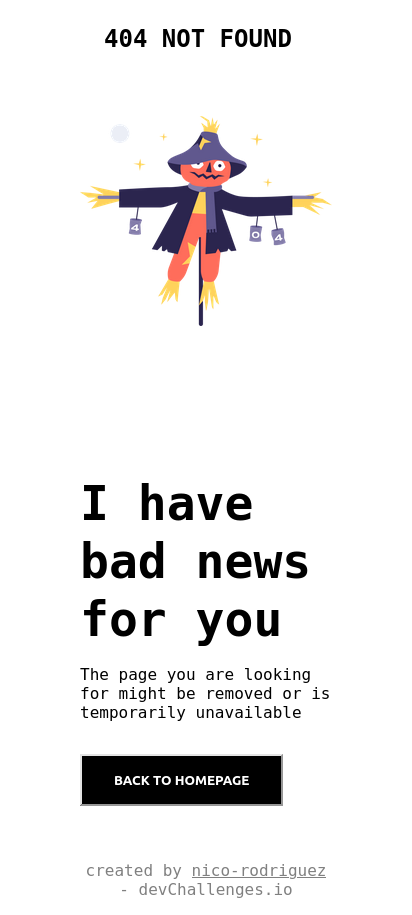
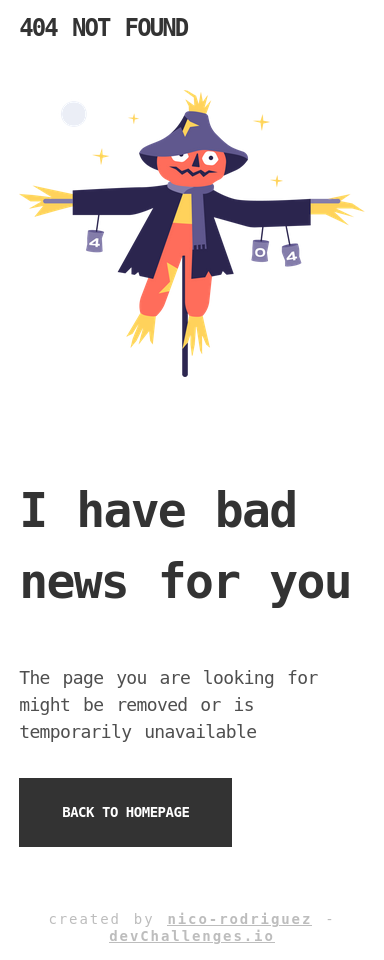
docs: Update screenshots

diff --git a/404-not-found/README.md b/404-not-found/README.md
@@ -1,5 +1,3 @@
-<!-- Please update value in the {}  -->
-
 <h1 align="center">404 Not Found</h1>
 
 <div align="center">
@@ -24,7 +22,7 @@ Visit [https://404-not-found-903ea1.netlify.app/](https://404-not-found-903ea1.n
 
 Desktop
 
-![screenshot](./screenshot-desktop.jpg)
+![screenshot](./screenshot-desktop.png)
 
 Mobile
 
@@ -34,4 +32,4 @@ Mobile
 
 This application/site was created as a submission to a [DevChallenges](https://devchallenges.io/challenges) challenge. The [challenge](https://devchallenges.io/challenges/wBunSb7FPrIepJZAg0sY) was to build an application to complete the given user stories.
 
-The main content is displayed as `flex`, changing from `row` to `column` on small screen devices.
+The main content is displayed as `grid`, with `auto-fit` and `minmax`, which creates a responsive grid that wraps its contents on small screen devices.
